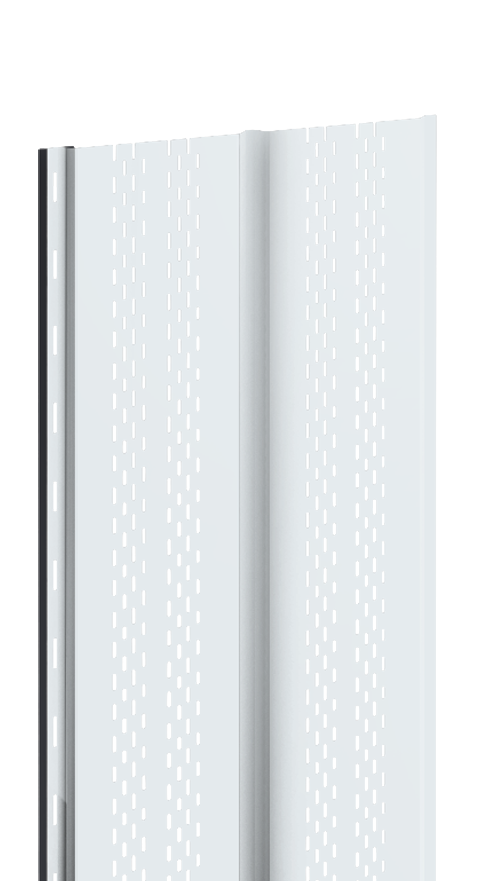
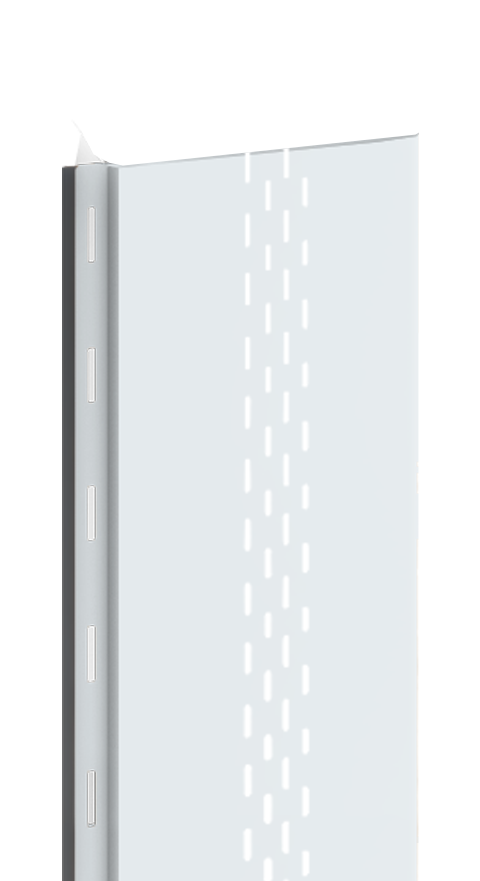
Add files via upload

diff --git a/index.html b/index.html
@@ -305,6 +305,32 @@
       transform: translate3d(0, -50%, 0);
     }
 
+    /* CUSTOM CUT and LUX LAP share the V-GROOVE product family.
+       Keep the main hotspot title at its existing size/position and place
+       the family name directly underneath as a smaller secondary line. */
+    #hotspotHeroTitle .hotspotHeroTitleMain {
+      display: block;
+      white-space: nowrap;
+    }
+
+    #hotspotHeroTitle .hotspotHeroTitleSub {
+      position: absolute;
+      left: 0;
+      top: calc(100% + 0.10em);
+      display: block;
+      color: rgba(255, 255, 255, 0.92);
+      font-size: 0.34em;
+      font-weight: 500;
+      line-height: 1;
+      letter-spacing: 0.055em;
+      word-spacing: normal;
+      white-space: nowrap;
+      text-shadow:
+        0 7px 18px rgba(0, 0, 0, 0.34),
+        0 2px 6px rgba(0, 0, 0, 0.30);
+      pointer-events: none;
+    }
+
     /* Let the little motion trail evaporate during the first part of the entrance. */
     #hotspotHeroTitle.is-visible::before,
     #hotspotHeroTitle.is-visible::after {
@@ -441,12 +467,23 @@
       font-weight: 800;
       line-height: 1;
       white-space: nowrap;
+      text-align: center;
       opacity: var(--hotspot-label-opacity, 0);
       pointer-events: none;
       text-shadow: 0 2px 8px rgba(0, 0, 0, 0.65);
       transition: opacity 0.16s ease;
       will-change: transform, opacity;
       z-index: 3;
+    }
+
+    .hotspotLabelSub {
+      display: block;
+      margin-top: 3px;
+      font-size: 0.68em;
+      font-weight: 600;
+      line-height: 1;
+      letter-spacing: 0.055em;
+      opacity: 0.92;
     }
 
     .hotspot:hover,
@@ -2416,7 +2453,7 @@
         <span class="hotspotLabel">NEO LUMBER</span>
       </button>
       <button class="hotspot" id="hotspot2" aria-label="CUSTOM CUT">
-        <span class="hotspotLabel">CUSTOM CUT</span>
+        <span class="hotspotLabel">CUSTOM CUT<span class="hotspotLabelSub">V-GROOVE</span></span>
       </button>
       <button class="hotspot" id="hotspot3" aria-label="NEO LUMBER">
         <span class="hotspotLabel">NEO LUMBER</span>
@@ -2434,7 +2471,7 @@
         <span class="hotspotLabel">SOFFIT</span>
       </button>
       <button class="hotspot" id="hotspot8" aria-label="LUX LAP">
-        <span class="hotspotLabel">LUX LAP</span>
+        <span class="hotspotLabel">LUX LAP<span class="hotspotLabelSub">V-GROOVE</span></span>
       </button>
       <button class="hotspot" id="hotspot9" aria-label="BOARD+BATTEN">
         <span class="hotspotLabel">BOARD+BATTEN</span>
@@ -5050,7 +5087,21 @@
     hotspots.forEach((hotspot) => {
       const displayName = hotspot.text || hotspot.label || hotspot.title;
       const label = hotspot.element.querySelector(".hotspotLabel");
-      if (label) label.textContent = displayName;
+
+      if (label) {
+        const needsVGrooveSubtitle = displayName === "CUSTOM CUT" || displayName === "LUX LAP";
+
+        label.replaceChildren();
+        label.append(document.createTextNode(displayName));
+
+        if (needsVGrooveSubtitle) {
+          const subtitle = document.createElement("span");
+          subtitle.className = "hotspotLabelSub";
+          subtitle.textContent = "V-GROOVE";
+          label.appendChild(subtitle);
+        }
+      }
+
       hotspot.element.setAttribute("aria-label", displayName);
     });
 
@@ -6182,6 +6233,27 @@
       hotspotHeroTitle.classList.add("is-sequence-fading");
     }
 
+    function setHotspotHeroTitleContent(title) {
+      const needsVGrooveSubtitle = title === "CUSTOM CUT" || title === "LUX LAP";
+
+      hotspotHeroTitle.replaceChildren();
+
+      const mainTitle = document.createElement("span");
+      mainTitle.className = "hotspotHeroTitleMain";
+      mainTitle.textContent = title;
+      hotspotHeroTitle.appendChild(mainTitle);
+
+      if (needsVGrooveSubtitle) {
+        const subtitle = document.createElement("span");
+        subtitle.className = "hotspotHeroTitleSub";
+        subtitle.textContent = "V-GROOVE";
+        hotspotHeroTitle.appendChild(subtitle);
+      }
+
+      /* The existing compositor-friendly motion trail remains on the main title only. */
+      hotspotHeroTitle.setAttribute("data-motion-text", title);
+    }
+
     function enterHotspotHeroTitle(title, key, token) {
       if (token !== hotspotHeroTitleSwapToken) return;
 
@@ -6193,8 +6265,7 @@
       hotspotHeroTitlePendingKey = key;
       hotspotHeroTitlePendingText = title;
       hotspotHeroTitleKey = key;
-      hotspotHeroTitle.textContent = title;
-      hotspotHeroTitle.setAttribute("data-motion-text", title);
+      setHotspotHeroTitleContent(title);
       hotspotHeroTitle.classList.remove("is-visible", "is-exiting-left", "is-sequence-fading");
 
       /* Paint once at the off-right/transparent starting state, then commit the
